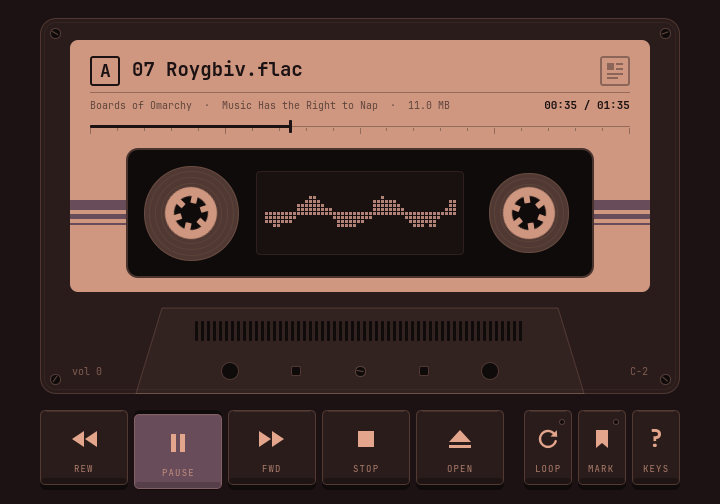
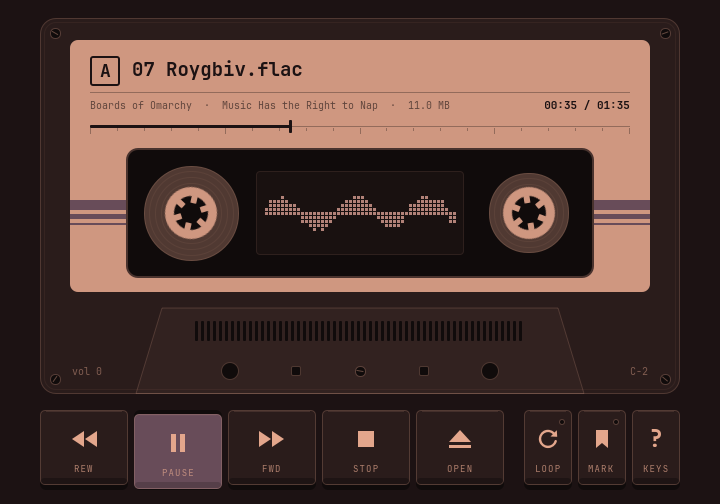
Let the side mark open the insert
The second badge is gone; the A turns over to the insert pictogram under the
pointer and unfolds the card when clicked.

Changed region(s): [[0.3667, 0.3869, 0.6417, 0.4762], [0.825, 0.0893, 0.8861, 0.1786]]

diff --git a/src/Main.qml b/src/Main.qml
@@ -109,32 +109,32 @@ ApplicationWindow {
                 id: label
                 x: 30; y: 22; width: 580; height: 252; radius: 8
                 color: paper
-                Rectangle {
-                    x: 20; y: 16; width: 30; height: 30; radius: 3; color: "transparent"; border.color: ink; border.width: 2
-                    Text { anchors.centerIn: parent; text: "A"; font.family: mono; font.pixelSize: 18; font.weight: Font.Bold; color: ink }
-                }
-                // A pictogram of the insert itself, cover art above lines of type, boxed like the side mark.
+                // The side mark doubles as the way into the insert: under the pointer it turns over to show
+                // a pictogram of the card, cover art above lines of type.
                 Rectangle {
                     id: insertBadge
                     objectName: "insertBadge"
-                    // Heavy strokes read darker than type of the same ink, so the badge rests lighter than the dim text.
-                    readonly property color faint: Qt.tint(paper, Qt.alpha(bg, 0.38))
-                    readonly property color mark: badgeArea.containsMouse ? paper : faint
-                    x: 530; y: 16; width: 30; height: 30; radius: 3; visible: deck.loaded
-                    color: badgeArea.containsMouse ? ink : "transparent"; border.color: badgeArea.containsMouse ? ink : faint; border.width: 2
-                    Rectangle { x: 7; y: 7; width: 7; height: 7; color: parent.mark }
-                    Rectangle { x: 16; y: 7; width: 7; height: 2; color: parent.mark }
-                    Rectangle { x: 16; y: 12; width: 7; height: 2; color: parent.mark }
-                    Rectangle { x: 7; y: 17; width: 16; height: 2; color: parent.mark }
-                    Rectangle { x: 7; y: 21; width: 11; height: 2; color: parent.mark }
+                    readonly property bool turned: badgeArea.containsMouse && deck.loaded
+                    x: 20; y: 16; width: 30; height: 30; radius: 3
+                    color: turned ? ink : "transparent"; border.color: ink; border.width: 2
+                    Text { visible: !parent.turned; anchors.centerIn: parent; text: "A"; font.family: mono; font.pixelSize: 18; font.weight: Font.Bold; color: ink }
+                    Item {
+                        anchors.fill: parent; visible: parent.turned
+                        Rectangle { x: 7; y: 7; width: 7; height: 7; color: paper }
+                        Rectangle { x: 16; y: 7; width: 7; height: 2; color: paper }
+                        Rectangle { x: 16; y: 12; width: 7; height: 2; color: paper }
+                        Rectangle { x: 7; y: 17; width: 16; height: 2; color: paper }
+                        Rectangle { x: 7; y: 21; width: 11; height: 2; color: paper }
+                    }
                     MouseArea {
                         id: badgeArea
-                        anchors.fill: parent; anchors.margins: -4; hoverEnabled: true; cursorShape: Qt.PointingHandCursor
+                        anchors.fill: parent; anchors.margins: -4; hoverEnabled: true; enabled: deck.loaded
+                        cursorShape: Qt.PointingHandCursor
                         onClicked: win.showInsert(true)
                         Accessible.role: Accessible.Button; Accessible.name: "Unfold the insert"
                     }
                 }
-                Text { x: 62; y: 17; width: deck.loaded ? 456 : 498; text: deck.filename; elide: Text.ElideMiddle; font.family: mono; font.pixelSize: 19; font.weight: Font.Bold; color: ink }
+                Text { x: 62; y: 17; width: 498; text: deck.filename; elide: Text.ElideMiddle; font.family: mono; font.pixelSize: 19; font.weight: Font.Bold; color: ink }
                 Rectangle { x: 20; y: 52; width: 540; height: 1; color: inkDim; opacity: 0.55 }
                 Text { x: 20; y: 59; width: 390; text: deck.loaded ? deck.detail : "Drop an audio file here, or press O to open one"; elide: Text.ElideRight; font.family: mono; font.pixelSize: 10; color: inkDim }
                 Text { x: 410; y: 58; width: 150; horizontalAlignment: Text.AlignRight; text: clock(deck.position) + " / " + clock(deck.duration); font.family: mono; font.pixelSize: 11; font.weight: Font.DemiBold; color: ink }
@@ -305,7 +305,7 @@ ApplicationWindow {
                     Text { text: modelData[1]; font.family: mono; font.pixelSize: 12; color: fg }
                 }
             }
-            Text { topPadding: 8; width: parent.width; wrapMode: Text.Wrap; text: "Drag the ruled line on the label to seek. Tap REW or FWD to jump five seconds, or hold to wind. Drag or scroll the grooves under the tape to set the volume. Click the boxed icon on the label to read the tape's insert."; color: dim; font.family: mono; font.pixelSize: 11; lineHeight: 1.45 }
+            Text { topPadding: 8; width: parent.width; wrapMode: Text.Wrap; text: "Drag the ruled line on the label to seek. Tap REW or FWD to jump five seconds, or hold to wind. Drag or scroll the grooves under the tape to set the volume. Click the A on the label to read the tape's insert."; color: dim; font.family: mono; font.pixelSize: 11; lineHeight: 1.45 }
             Text { text: "Esc or a click closes this."; color: dim; font.family: mono; font.pixelSize: 11 }
         }
     }

diff --git a/README.md b/README.md
@@ -59,7 +59,7 @@ The full installer requires an existing Hyprland Lua configuration and `xdg-mime
 - **PLAY / PAUSE, STOP, OPEN:** physical-style keys. Stop returns to the beginning.
 - **Lower cassette ridges:** click, drag, or scroll to set the player's volume.
 - **LOOP / MARK:** toggle repeat or save your place. LOOP latches down; each key's lamp lights while it applies.
-- **Boxed icon on the label:** click it (or press I) to unfold the insert, a J-card with the
+- **The label's A mark:** click it (or press I) to unfold the insert, a J-card with the
   embedded cover art, a spine, and liner notes listing the lyrics, every tag in the file
   (custom fields included), and its technical details. Click the folder to open it in your file manager. Files without art get a typeset cover.
 - **Plastic window:** a waveform drawn from decoded PCM samples, with no synthetic animation.
